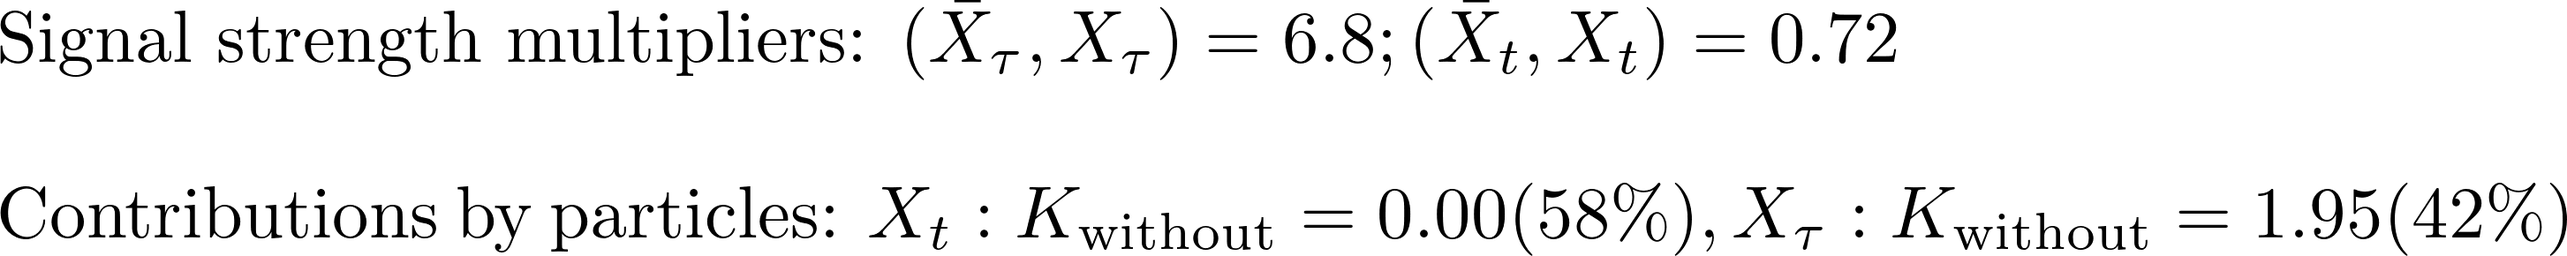
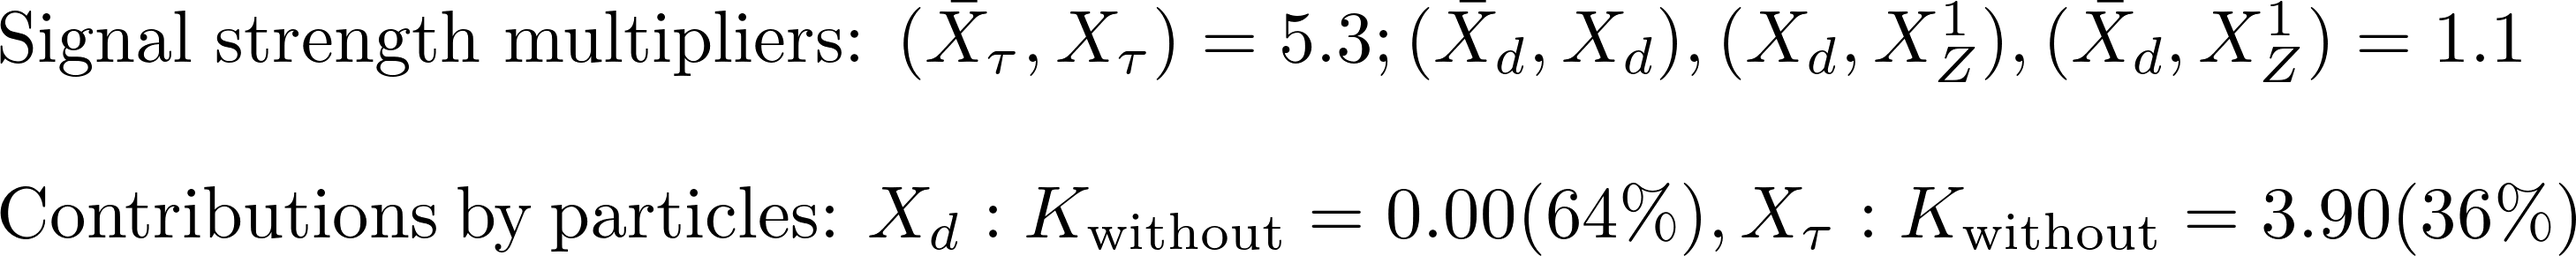
automated update by plotHiscore.py to /scratch-cbe/users/wolfgan.waltenberger/git/smodels.github.io/protomodels

diff --git a/protomodels/2020_PioneerStudy/closure_sampled9/index.html b/protomodels/2020_PioneerStudy/closure_sampled9/index.html
@@ -1,28 +1,29 @@
 <html>
 <body>
 <center>
-<table><td><h1>Current best protomodel: <i>K</i>=7.20</h1><td><img height=60px src=https://smodels.github.io/pics/banner.png></table>
+<table><td><h1>Current best protomodel: <i>K</i>=8.93</h1><td><img height=60px src=https://smodels.github.io/pics/banner.png></table>
 </center>
-<b><a href=./hiscore.slha>ProtoModel</a> <a href=./pmodel.py>(dict)</a> produced with <a href=https://smodels.github.io/docs/Validation124scaled9>database v1.2.4scaled9</a>, combination strategy <a href=./matrix_aggressive.png>aggressive</a> in walker 42 step 989.</b> <i>K</i> plots for: <a href=./M1000022.png?15051457>X<sub>Z</sub><sup>1</sup></a>, <a href=./M1000006.png?15051457>X<sub>t</sub></a>, <a href=./M1000015.png?15051457>X<sub>&tau;</sub></a>. HPD plots for: <a href=./llhd1000006.png?15051457>X<sub>t</sub></a>, <a href=./llhd1000015.png?15051457>X<sub>&tau;</sub></a>. SSM plots for: <a href=./ssm_-1000006_1000006.png?15051457>(x&#772;<sub>t</sub>,X<sub>t</sub>)</a><br>
+<b><a href=./hiscore.slha>ProtoModel</a> <a href=./pmodel.py>(dict)</a> produced with <a href=https://smodels.github.io/docs/Validation124scaled9>database v1.2.4scaled9</a>, combination strategy <a href=./matrix_aggressive.png>aggressive</a> in walker 40 step 653.</b> <i>K</i> plots for: <a href=./M1000022.png?15312935>X<sub>Z</sub><sup>1</sup></a>, <a href=./M1000001.png?15312935>X<sub>d</sub></a>, <a href=./M1000015.png?15312935>X<sub>&tau;</sub></a>. HPD plots for: <a href=./llhd1000001.png?15312935>X<sub>d</sub></a>, <a href=./llhd1000015.png?15312935>X<sub>&tau;</sub></a>. SSM plots for: <br>
 <table width=80%>
 <tr><td>
 <br><b>14 predictions available. Highest r values are:</b><br><ul>
-<li><a href=http://cms-results.web.cern.ch/cms-results/public-results/publications/SUS-19-006/index.html>CMS-SUS-19-006</a>:T2tt r=1.20, r<sub>exp</sub>=N/A<br>
-<li><a href=http://cms-results.web.cern.ch/cms-results/public-results/publications/SUS-16-051/index.html>CMS-SUS-16-051</a>:T2tt r=0.87, r<sub>exp</sub>=N/A<br>
-<li><a href=http://cms-results.web.cern.ch/cms-results/public-results/publications/SUS-16-050/index.html>CMS-SUS-16-050</a>:T2tt r=0.73, r<sub>exp</sub>=N/A<br>
-<li><a href=http://cms-results.web.cern.ch/cms-results/public-results/publications/SUS-16-036/index.html>CMS-SUS-16-036</a>:T2tt r=0.72, r<sub>exp</sub>=N/A<br>
-<li><a href=http://cms-results.web.cern.ch/cms-results/public-results/publications/SUS-16-049/index.html>CMS-SUS-16-049</a>:T2tt r=0.65, r<sub>exp</sub>=N/A<br>
+<li><a href=https://atlas.web.cern.ch/Atlas/GROUPS/PHYSICS/PAPERS/SUSY-2016-07/>ATLAS-SUSY-2016-07</a>:T2 r=0.85, r<sub>exp</sub>=N/A<br>
+<li><a href=https://atlas.web.cern.ch/Atlas/GROUPS/PHYSICS/PAPERS/SUSY-2018-04/>ATLAS-SUSY-2018-04</a>:TStauStau r=0.74, r<sub>exp</sub>=N/A<br>
+<li><a href=https://atlas.web.cern.ch/Atlas/GROUPS/PHYSICS/PAPERS/SUSY-2018-04/>ATLAS-SUSY-2018-04</a>:TStauStau r=0.70, r<sub>exp</sub>=N/A<br>
+<li><a href=http://cms-results.web.cern.ch/cms-results/public-results/publications/SUS-19-006/index.html>CMS-SUS-19-006</a>:T2 r=0.55, r<sub>exp</sub>=N/A<br>
+<li><a href=http://cms-results.web.cern.ch/cms-results/public-results/publications/SUS-16-036/index.html>CMS-SUS-16-036</a>:T2 r=0.49, r<sub>exp</sub>=N/A<br>
 </ul>
 <td><br><b>K values without analyses: (contribution)</b><br>
 <ul>
-<li> <a href=http://cms-results.web.cern.ch/cms-results/public-results/publications/SUS-16-049/index.html>CMS-SUS-16-049</a>: 5.21 (14%)
-<li> <a href=https://atlas.web.cern.ch/Atlas/GROUPS/PHYSICS/PAPERS/SUSY-2016-16/>ATLAS-SUSY-2016-16</a>: 3.90 (23%)
-<li> <a href=https://atlas.web.cern.ch/Atlas/GROUPS/PHYSICS/PAPERS/SUSY-2018-04/>ATLAS-SUSY-2018-04</a>: -1.84 (63%)
-<td><img width=600px src=./texdoc.png?1608051457>
-<br><font size=-1>Last updated: Tue Dec 15 17:57:37 2020</font>
+<li> <a href=https://atlas.web.cern.ch/Atlas/GROUPS/PHYSICS/PAPERS/SUSY-2013-02/>ATLAS-SUSY-2013-02</a>: 3.60 (18%)
+<li> <a href=http://cms-results.web.cern.ch/cms-results/public-results/publications/SUS-16-033/index.html>CMS-SUS-16-033</a>: 3.32 (19%)
+<li> <a href=https://twiki.cern.ch/twiki/bin/view/CMSPublic/PhysicsResultsSUS13012>CMS-SUS-13-012</a>: 3.32 (19%)
+<li> <a href=https://atlas.web.cern.ch/Atlas/GROUPS/PHYSICS/PAPERS/SUSY-2018-04/>ATLAS-SUSY-2018-04</a>: -3.80 (43%)
+<td><img width=600px src=./texdoc.png?1608312935>
+<br><font size=-1>Last updated: Fri Dec 18 18:35:35 2020</font>
 </table><table style="width:80%">
-<td width=45%><img height=580px src=./ruler.png?1608051457><td width=55%><img height=380px src=./decays.png?1608051457>
-<font size=-3><iframe type="text/html" height="220px" width="100%s" frameborder="0" src="./rawnumbers.html?1608051457"></iframe></font>
+<td width=45%><img height=580px src=./ruler.png?1608312935><td width=55%><img height=380px src=./decays.png?1608312935>
+<font size=-3><iframe type="text/html" height="220px" width="100%s" frameborder="0" src="./rawnumbers.html?1608312935"></iframe></font>
 </table>
 </body>
 </html>

diff --git a/protomodels/2020_PioneerStudy/closure_sampled9/rawnumbers.html b/protomodels/2020_PioneerStudy/closure_sampled9/rawnumbers.html
@@ -1,7 +1,8 @@
 <table>
 <tr><th>Analysis Name</th><th>Type</th><th>Dataset</th><th>Topos</th><th>Observed</th><th>Expected</th><th>Approx &sigma;</th><th>Particles</th><th>Signal</th>
 </tr>
-<tr><td><a href=https://atlas.web.cern.ch/Atlas/GROUPS/PHYSICS/PAPERS/SUSY-2016-16/>ATLAS-SUSY-2016-16</a></td><td>em</td> <td>tN_high</td><td>T2tt</td><td>7</td><td>3.8 +/- 1</td><td style="text-align:right">1.5 &sigma;</td><td style="text-align:right">X<sub>t</sub></td><td style="text-align:right">4</td></tr>
+<tr><td><a href=https://atlas.web.cern.ch/Atlas/GROUPS/PHYSICS/PAPERS/SUSY-2013-02/>ATLAS-SUSY-2013-02</a></td><td>em</td> <td>SR6jtp</td><td>T2</td><td>2</td><td>4.9 +/- 1.6</td><td style="text-align:right">-1.1 &sigma;</td><td style="text-align:right">X<sub>d</sub></td><td style="text-align:right">0</td></tr>
 <tr><td><a href=https://atlas.web.cern.ch/Atlas/GROUPS/PHYSICS/PAPERS/SUSY-2018-04/>ATLAS-SUSY-2018-04</a></td><td>em</td> <td>SRlow</td><td>TStauStau</td><td>16</td><td>6 +/- 1.7</td><td style="text-align:right">3.4 &sigma;</td><td style="text-align:right">X<sub>&tau;</sub></td><td style="text-align:right">-</td></tr>
-<tr><td><a href=http://cms-results.web.cern.ch/cms-results/public-results/publications/SUS-16-049/index.html>CMS-SUS-16-049</a></td><td>ul</td> <td>-</td><td>T2tt</td><td> 4.9 fb </td><td> 2.9 fb</td><td style="text-align:right">1.3 &sigma;</td><td style="text-align:right">X<sub>t</sub></td><td style="text-align:right">2.62 fb</td></tr>
+<tr><td><a href=https://twiki.cern.ch/twiki/bin/view/CMSPublic/PhysicsResultsSUS13012>CMS-SUS-13-012</a></td><td>ul</td> <td>-</td><td>T2</td><td> 11.0 fb </td><td> 8.4 fb</td><td style="text-align:right">0.6 &sigma;</td><td style="text-align:right">X<sub>d</sub></td><td style="text-align:right">2.66 fb</td></tr>
+<tr><td><a href=http://cms-results.web.cern.ch/cms-results/public-results/publications/SUS-16-033/index.html>CMS-SUS-16-033</a></td><td>ul</td> <td>-</td><td>T2</td><td> 37.5 fb </td><td> 13.5 fb</td><td style="text-align:right">3.5 &sigma;</td><td style="text-align:right">X<sub>d</sub></td><td style="text-align:right">23.95 fb</td></tr>
 </table>

diff --git a/protomodels/2020_PioneerStudy/closure_sampled9/pmodel.py b/protomodels/2020_PioneerStudy/closure_sampled9/pmodel.py
@@ -1,1 +1,1 @@
-{'masses': {1000022: 66.8, 1000015: 167.595, 1000006: 1048.61}, 'ssmultipliers': {(1000022, 1000022): 0.0, (1000015, 1000015): 7.003, (-1000015, 1000015): 6.775, (-1000015, -1000015): 6.775, (1000015, 1000022): 6.775, (-1000015, 1000022): 6.775, (1000006, 1000006): 0.722, (-1000006, 1000006): 0.722, (-1000006, -1000006): 0.722, (1000006, 1000022): 0.722, (-1000006, 1000022): 0.722, (1000006, 1000015): 0.722, (-1000006, 1000015): 0.722, (-1000015, 1000006): 0.722, (-1000015, -1000006): 0.722}, 'decays': {1000022: {}, 1000015: {(1000022, 15): 1.0}, 1000006: {(1000022, 6): 1.0}}, 'timestamp': 'Tue Dec 15 17:57:29 2020', 'Z': 3.271, 'K': 7.201, 'walkerid': 42, 'step': 989, 'codever': '1.0', 'dbver': '1.2.4scaled9'}
+{'masses': {1000022: 13.196, 1000015: 135.602, 1000001: 868.624}, 'ssmultipliers': {(1000022, 1000022): 0.001, (1000015, 1000015): 5.337, (-1000015, 1000015): 5.337, (-1000015, -1000015): 5.337, (1000015, 1000022): 5.337, (-1000015, 1000022): 5.337, (1000001, 1000001): 1.166, (-1000001, 1000001): 1.087, (-1000001, -1000001): 1.087, (1000001, 1000022): 1.087, (-1000001, 1000022): 1.087, (1000001, 1000015): 1.087, (-1000001, 1000015): 1.087, (-1000015, 1000001): 1.087, (-1000015, -1000001): 1.087}, 'decays': {1000022: {}, 1000015: {(1000022, 15): 1.0}, 1000001: {(1000022, 1): 1.0}}, 'timestamp': 'Fri Dec 18 18:35:25 2020', 'Z': 3.568, 'K': 8.929, 'walkerid': 40, 'step': 653, 'codever': '1.0', 'dbver': '1.2.4scaled9'}
